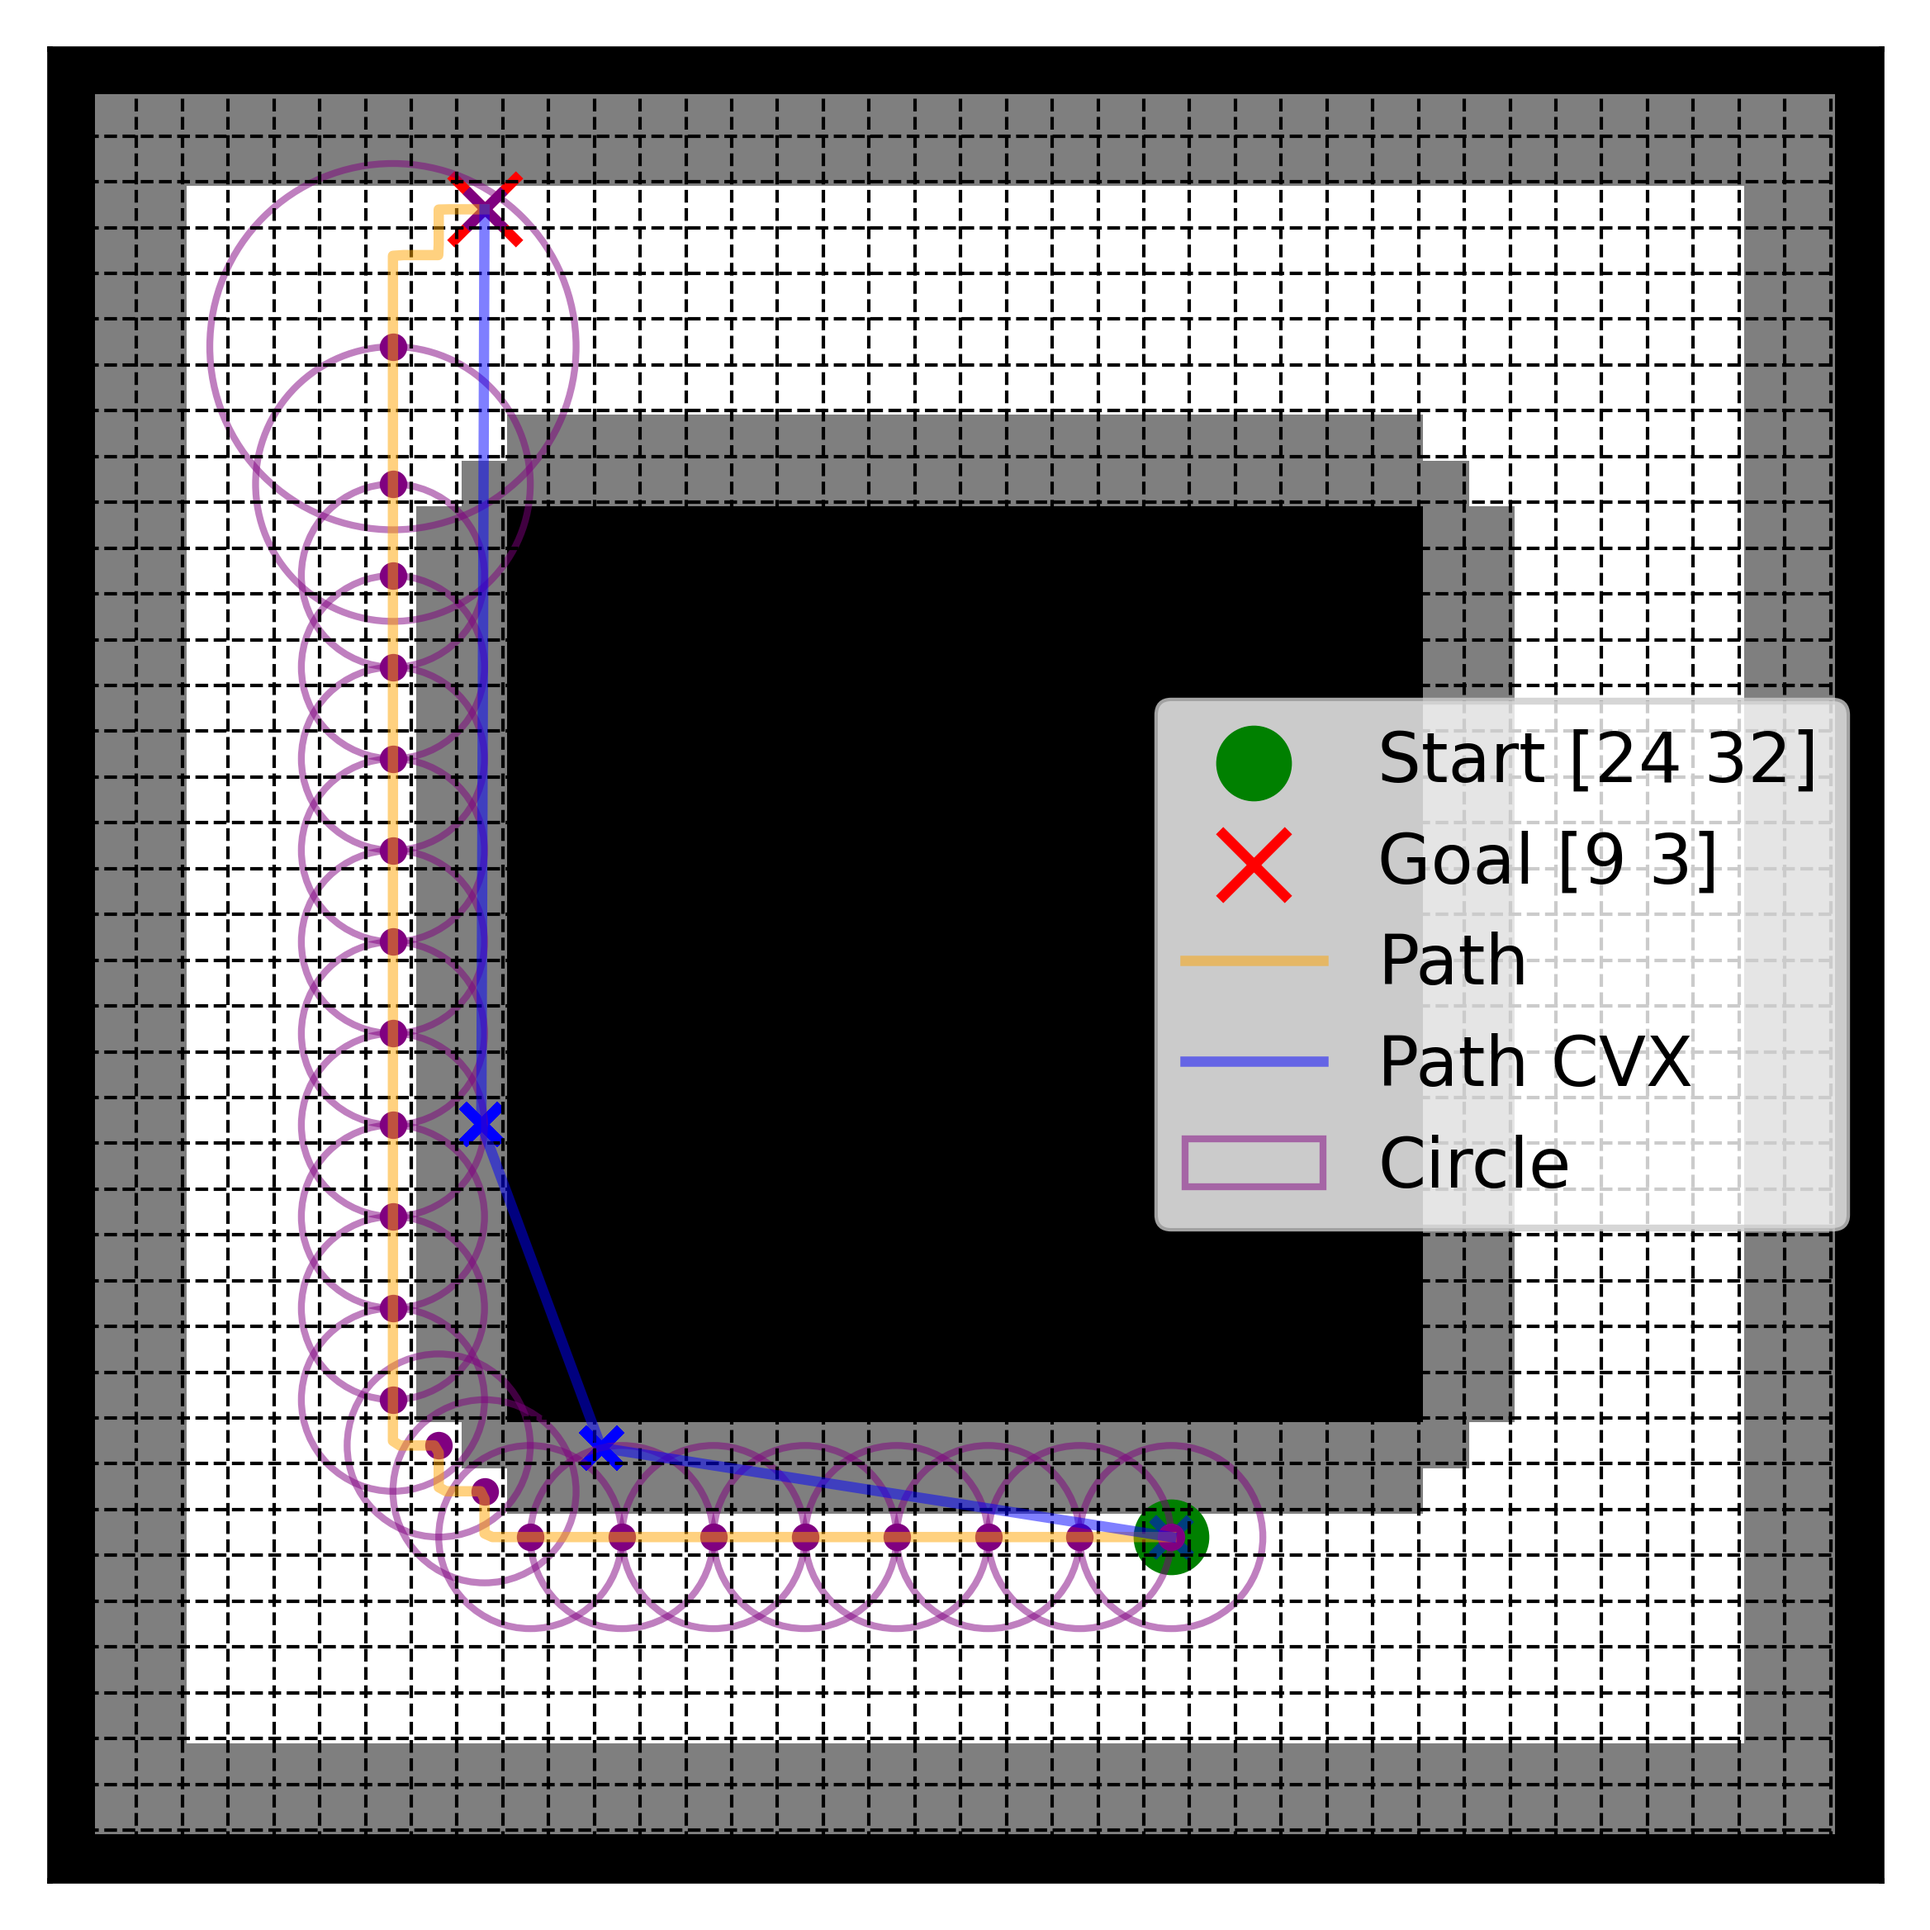
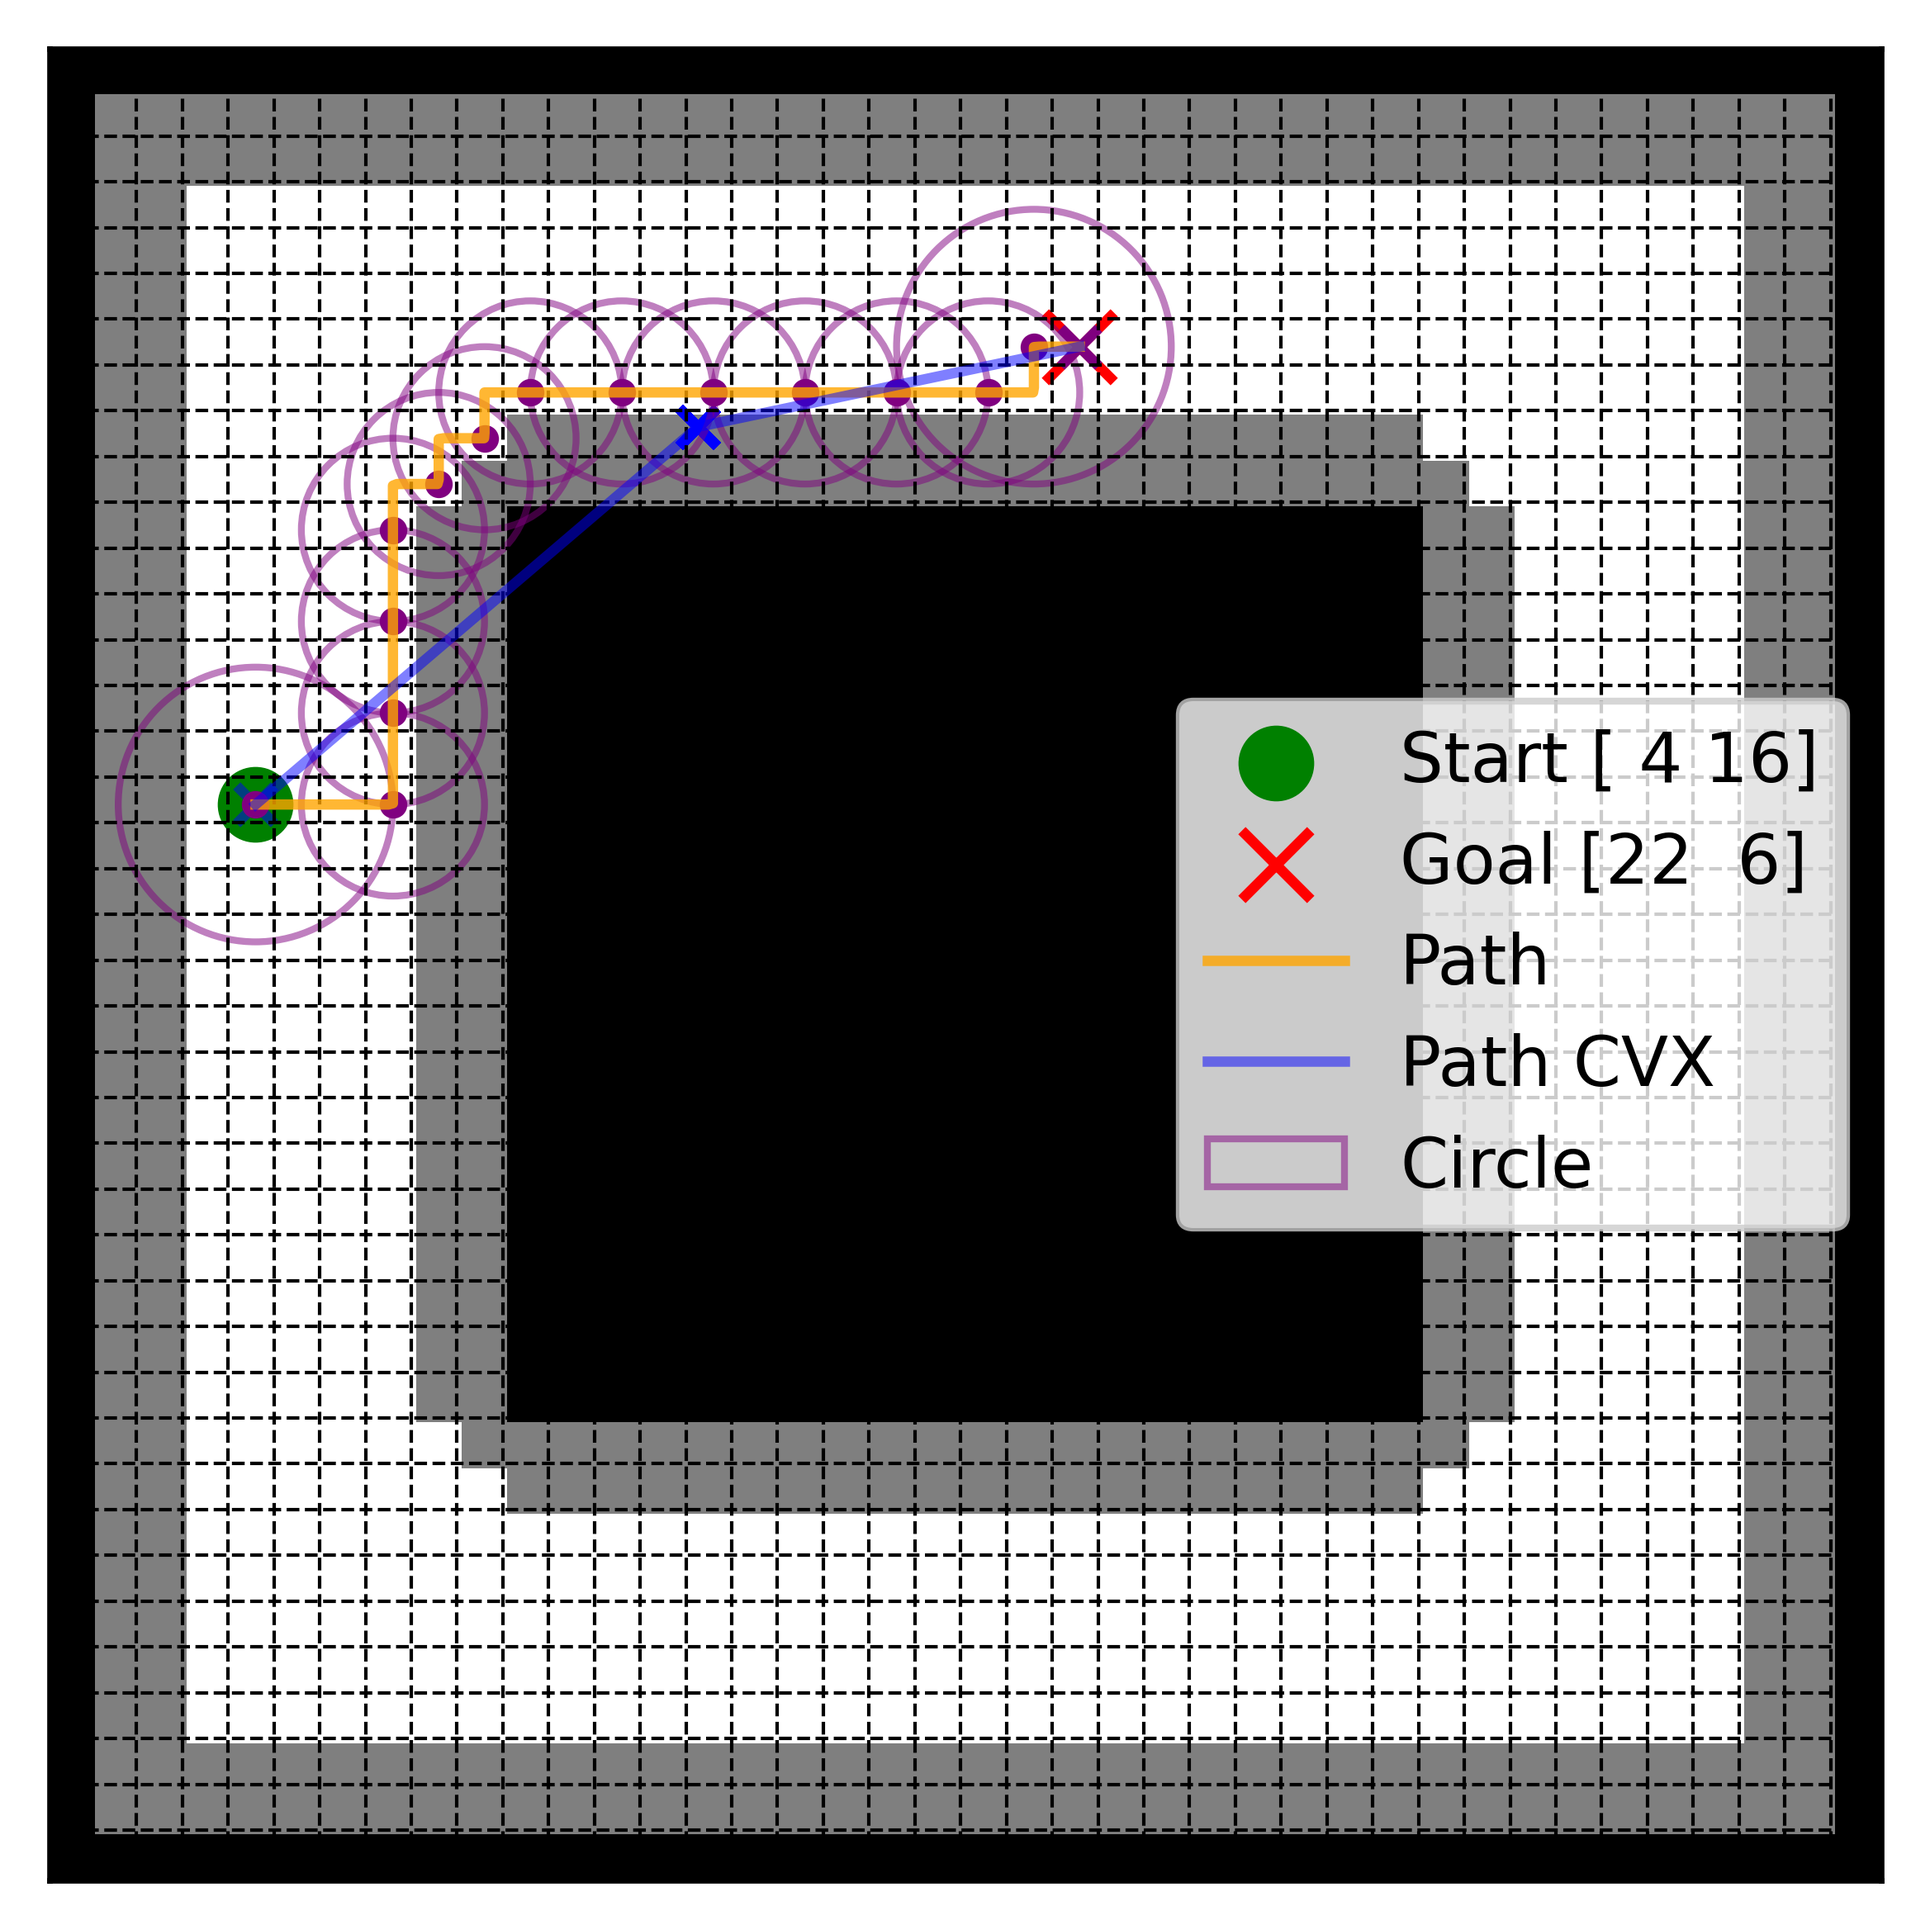
Added tiny dynamics (linear) and a skeleton'd (but commented otu) the dynamics constraints

diff --git a/src/main_convex_sanity_check.py b/src/main_convex_sanity_check.py
@@ -7,6 +7,7 @@ from scipy.ndimage import binary_dilation
 from scipy.interpolate import interp1d
 from utils.general import gradient_log_softmax, log_softmax
 import cvxpy as cp
+from dynamics_tiny import DynamicsTiny
 
 class World:
     def __init__(self, side_length, middle_obstacle_side_length, agent_radius):
@@ -248,17 +249,20 @@ path = interp1d(np.arange(num_points_original), path, axis=0)(np.linspace(0, num
     
 # This is where we get convex with it
 
-def sdf_values(path,circles):
-        
+# Lets have some dynamics
+dynamics = DynamicsTiny(dt=0.1)
+
+def sdf_values(path, circles):
+    # If it's 1 point long make it 2d
     if len(path.shape) == 1:
         path = path[np.newaxis, :]
-    
+    # (num points in path, num circles)
     d = np.zeros((path.shape[0], len(circles)))
-
-    for i in range(len(circles)):
-        for j in range(len(path)):
-            d[j,i] = circles[i].sdf_value(*path[j])
-    
+    # Each row is the sdf value of the circle at that point 
+    # ('how in each circle is the ith path point')
+    for i in range(len(path)):
+        for j in range(len(circles)):
+            d[i,j] = circles[j].sdf_value(*path[i])
     return d
 
 def scp_smooth_path(world, path, circles, sig=50, eps_ss=1e-4, max_iters=15, tol=1e-3):
@@ -282,14 +286,23 @@ def scp_smooth_path(world, path, circles, sig=50, eps_ss=1e-4, max_iters=15, tol
     X_prev = np.copy(path)  # Initial guess (previous iteration's solution)
 
     for iter in tqdm(range(max_iters), desc="SCP Iteration"):
+
         # Define optimization variables (x, y coordinates for each path point)
         X = cp.Variable((num_points, 2))
         slack_sdf = cp.Variable((num_points,num_circles))
 
+        # ----------------------------------------------------------------
+
         # Constraints
         constraints = []
+
+        # ~~~~ Start and end constraints ~~~~
+
+        # Start and end
         constraints.append(X[0] == path[0])  # Fix start
         constraints.append(X[-1] == path[-1])  # Fix goal
+
+        # ~~~~ SDF constraints ~~~~
 
         # slack sdf prev is going to be a matrix (num_timesteps, num_sdfs)
         slack_sdf_prev = sdf_values(X_prev[:,:2],circles)
@@ -300,18 +313,49 @@ def scp_smooth_path(world, path, circles, sig=50, eps_ss=1e-4, max_iters=15, tol
         # # affine part of the assembled matrix form of the constraints
         L0 = log_softmax(sig, slack_sdf_prev)
         
+        # The SDF constraints
+        # This set of constraints ensures that the slack continues to minimize
         constraints += [cp.diag( G @ (slack_sdf - slack_sdf_prev).T) + L0 >= 0]
-
+        # This set of constraints ensures that the slack is always less than the true sdf values
         for i in range(num_circles):
             constraints += [slack_sdf[k,i] <= 1 - (1/circles[i].radius)*cp.norm2(X[k] - np.array([circles[i].x,circles[i].y])) for k in range(num_points)]
 
-        # Solve the convex subproblem
+        # ~~~~ Dynamics constraints ~~~~
+            
+        # # Get affinized dynamics about the current point. We do this
+        # # in a batch so we actually have multiple A's and B's and C's\
+        # # here
+        # A, B, C = dynamics.affinize(X_prev[:-1], U_prev)
+        # A, B, C = np.array(A),np.array(B),np.array(C)
+
+        # # Create virtual control term (recommended to be identity matrix)
+        # E = np.eye(2)
+
+        # # From the prior solution
+        # nu_max = 1
+
+        # # Construct the dynamic feasibility constraint
+        # constraints += [x[k+1] == A[k] @ x[k] + B[k] @ u[k] + C[k] + E @ nu[k] for k in range(self.N - 1)]
+
+        # constraints += [cp.max(cp.abs(nu)) <= nu_max]
+
+        # ----------------------------------------------------------------
+
+        # Formulate the objective
         objective = 0
+
+        # The distance objective is the sum of the squared distances between consecutive points (normalized)
         distance_max = (cp.norm2(path[0] - path[-1]))**2 * (num_points - 1)
         distance_objective = cp.sum([(cp.norm2(X[_k] - path[-1]))**2 for _k in range(num_points - 1)]) / distance_max
         objective += distance_objective
+
+        # The SDF objective attempts to minimize the slack
         sdf_objective = -eps_ss * cp.sum(slack_sdf)
         objective += sdf_objective
+
+        # ----------------------------------------------------------------
+
+        # Solve it
         problem = cp.Problem(cp.Minimize(objective), constraints)
         problem.solve()
 

diff --git a/src/dynamics_tiny.py b/src/dynamics_tiny.py
@@ -1,0 +1,119 @@
+import math
+from scipy.spatial.transform import Rotation as R
+import pickle
+import os
+import jax.numpy as jnp
+import jax
+import scipy as sp
+from math import sqrt
+
+import utils.general as general
+import utils.geometric as geometric
+
+class DynamicsTiny:
+    """
+    Dynamics for a tiny gridworld
+    """
+    def __init__(
+        self,
+        dt,           
+    ):
+        self.dt = dt
+    
+    def step(self, state, action):
+        return state + self.state_delta(state, action)
+
+    def state_size(self):
+        return 2
+    
+    def action_size(self):
+        return 2
+    
+    def state_labels(self):
+        # x, y
+        return ["x", "y"]
+    
+    def zero_state(self):
+        return jnp.zeros(self.state_size())
+    
+    def action_labels(self):
+        return ["x jump", "y jump"]
+    
+    def action_ranges(self):
+        return jnp.array([
+            [-1, 1],
+            [-1, 1],
+        ]) 
+    
+    def state_delta(self, state, action):
+        return action
+    
+    def linearize(self, states, actions):
+        """
+        Linearize the system dynamics (self.step) about the given state and action.
+        System dynamics must be written in jax. Works with batch inputs
+
+        Parameters
+        ----------
+        state: numpy.ndarray
+            State vector to linearize about
+        action: numpy.ndarray
+            Control vector to linearize about
+
+        Returns
+        -------
+        A: jax.numpy.ndarray
+            Jacobian of dynamics function at provided (state, action) with respect to state
+        B: jax.numpy.ndarray
+            Jacobian of dynamics function at provided (state, action) with respect to action
+        """
+        def linearize_single(state, action):
+            # Calculate A and B 
+            A, B = jax.jacfwd(self.step, (0, 1))(state, action)
+            return A, B
+        
+        # Linearize the batch of states and actions
+        linearize_batch = jax.vmap(linearize_single, in_axes=(0, 0))
+        if states.ndim == 1:
+            A,B = linearize_single(states,actions)
+        else:
+            A, B = linearize_batch(states, actions)
+        
+        return A, B
+    
+    def affinize(self, states, actions):
+        """
+        Affinize the system dynamics (self.step) about the given state and action.
+        System dynamics must be written in jax. Works with batch inputs
+
+        Parameters
+        ----------
+        state: numpy.ndarray
+            State vector to affinize about
+        action: numpy.ndarray
+            Control vector to affinize about
+
+        Returns
+        -------
+        A: jax.numpy.ndarray
+            Jacobian of dynamics function at provided (state, action) with respect to state
+        B: jax.numpy.ndarray
+            Jacobian of dynamics function at provided (state, action) with respect to action
+        C: jax.numpy.ndarray
+            The offset term in the first-order Taylor expansion of dynamics function at 
+            provided (state, action)
+        """
+        def affinize_single(state, action):
+            # Calculate A, B, and C
+            A, B = jax.jacfwd(self.step, (0, 1))(state, action)
+            C = self.step(state, action) - A@state - B@action
+            return A, B, C
+        
+        # Affinize the batch of states and actions
+        affinize_batch = jax.vmap(affinize_single, in_axes=(0, 0))
+        if states.ndim == 1:
+            A, B, C = affinize_single(states, actions)
+        else:
+            A, B, C = affinize_batch(states, actions)
+        
+        return A, B, C
